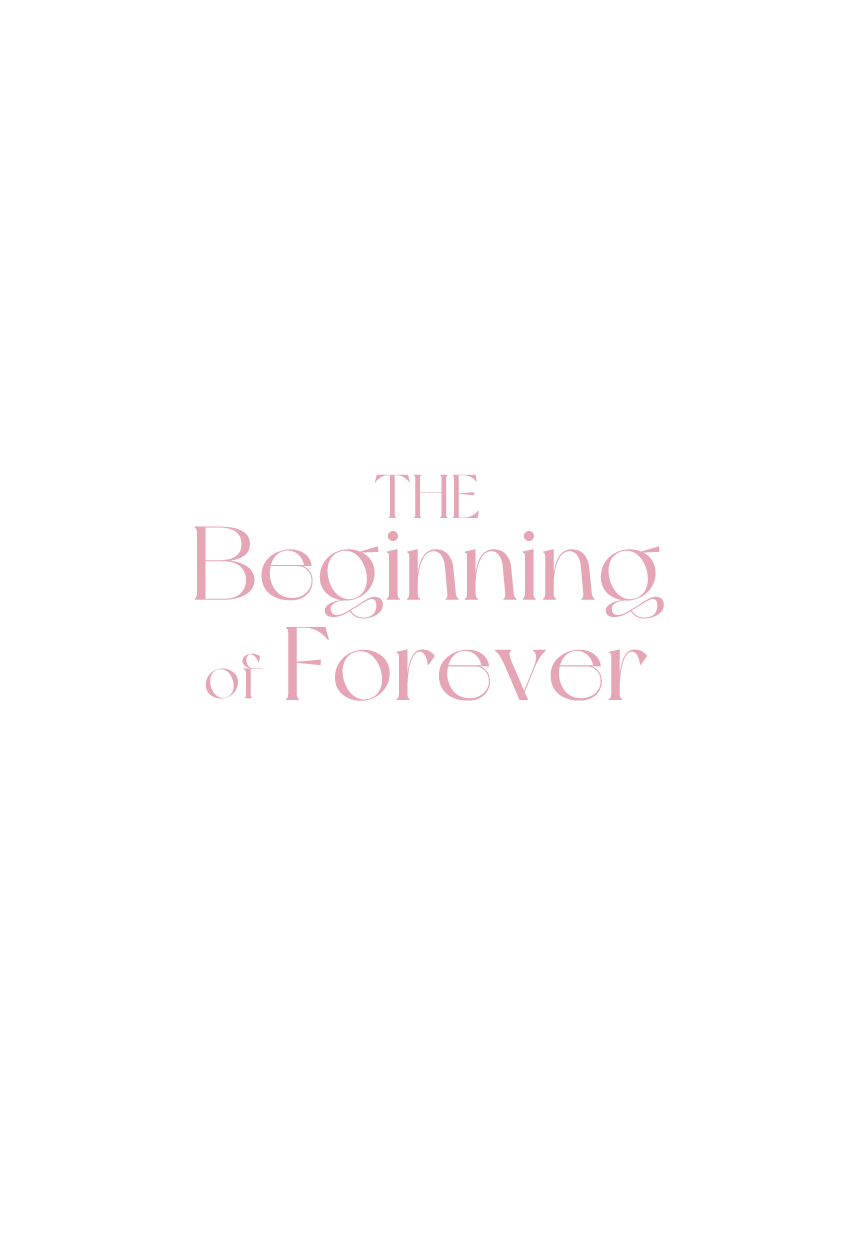
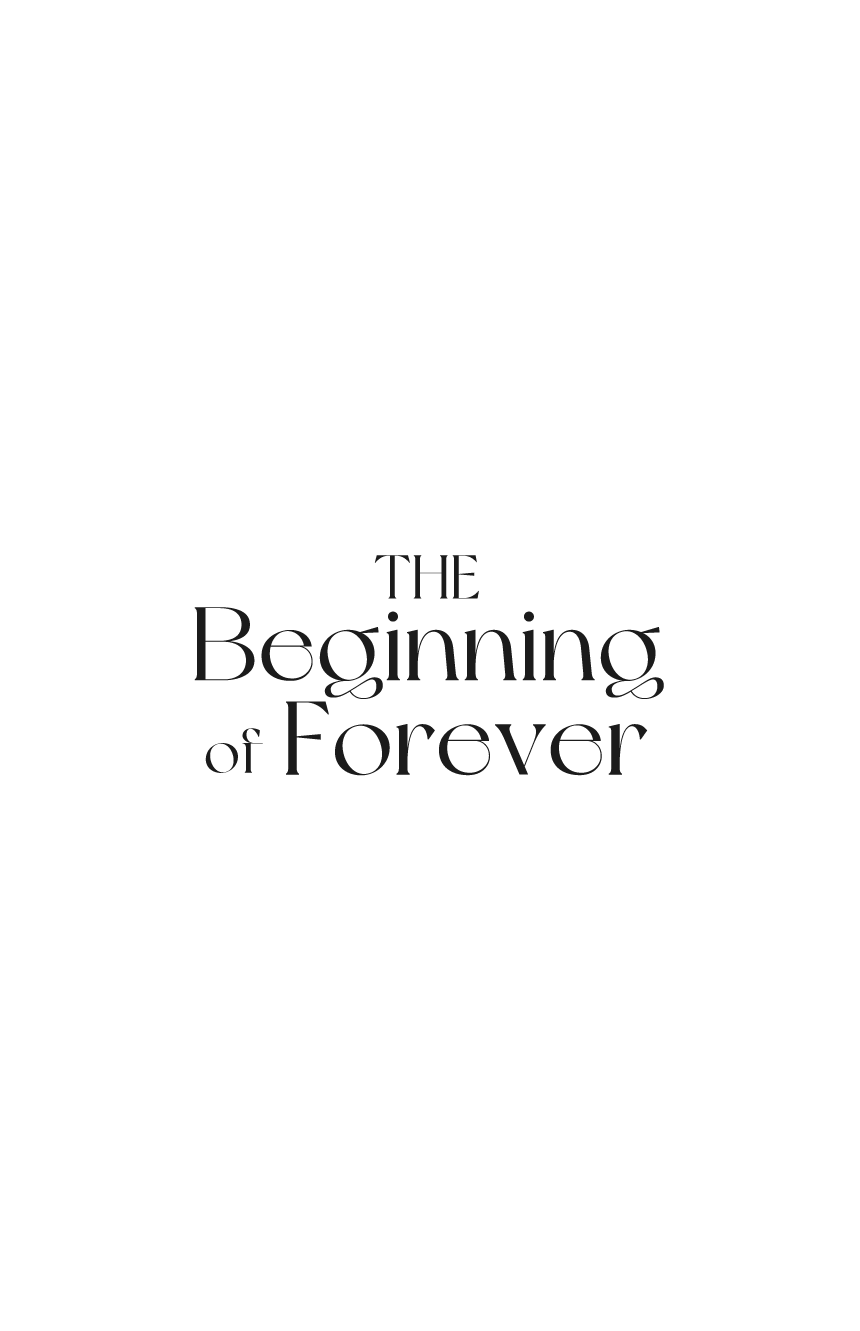
청첩장 수정

Changed region(s): [[0.2116, 0.3729, 0.786, 0.5904]]

diff --git a/index.html b/index.html
@@ -1781,7 +1781,7 @@ background-size:100% 100%;
 
 .end-section.end-return .end-cover{
     transform:translateY(100%);
-    transition-delay:.9s;
+    transition-delay:.3s;
 }
 
 /* ==================================================
